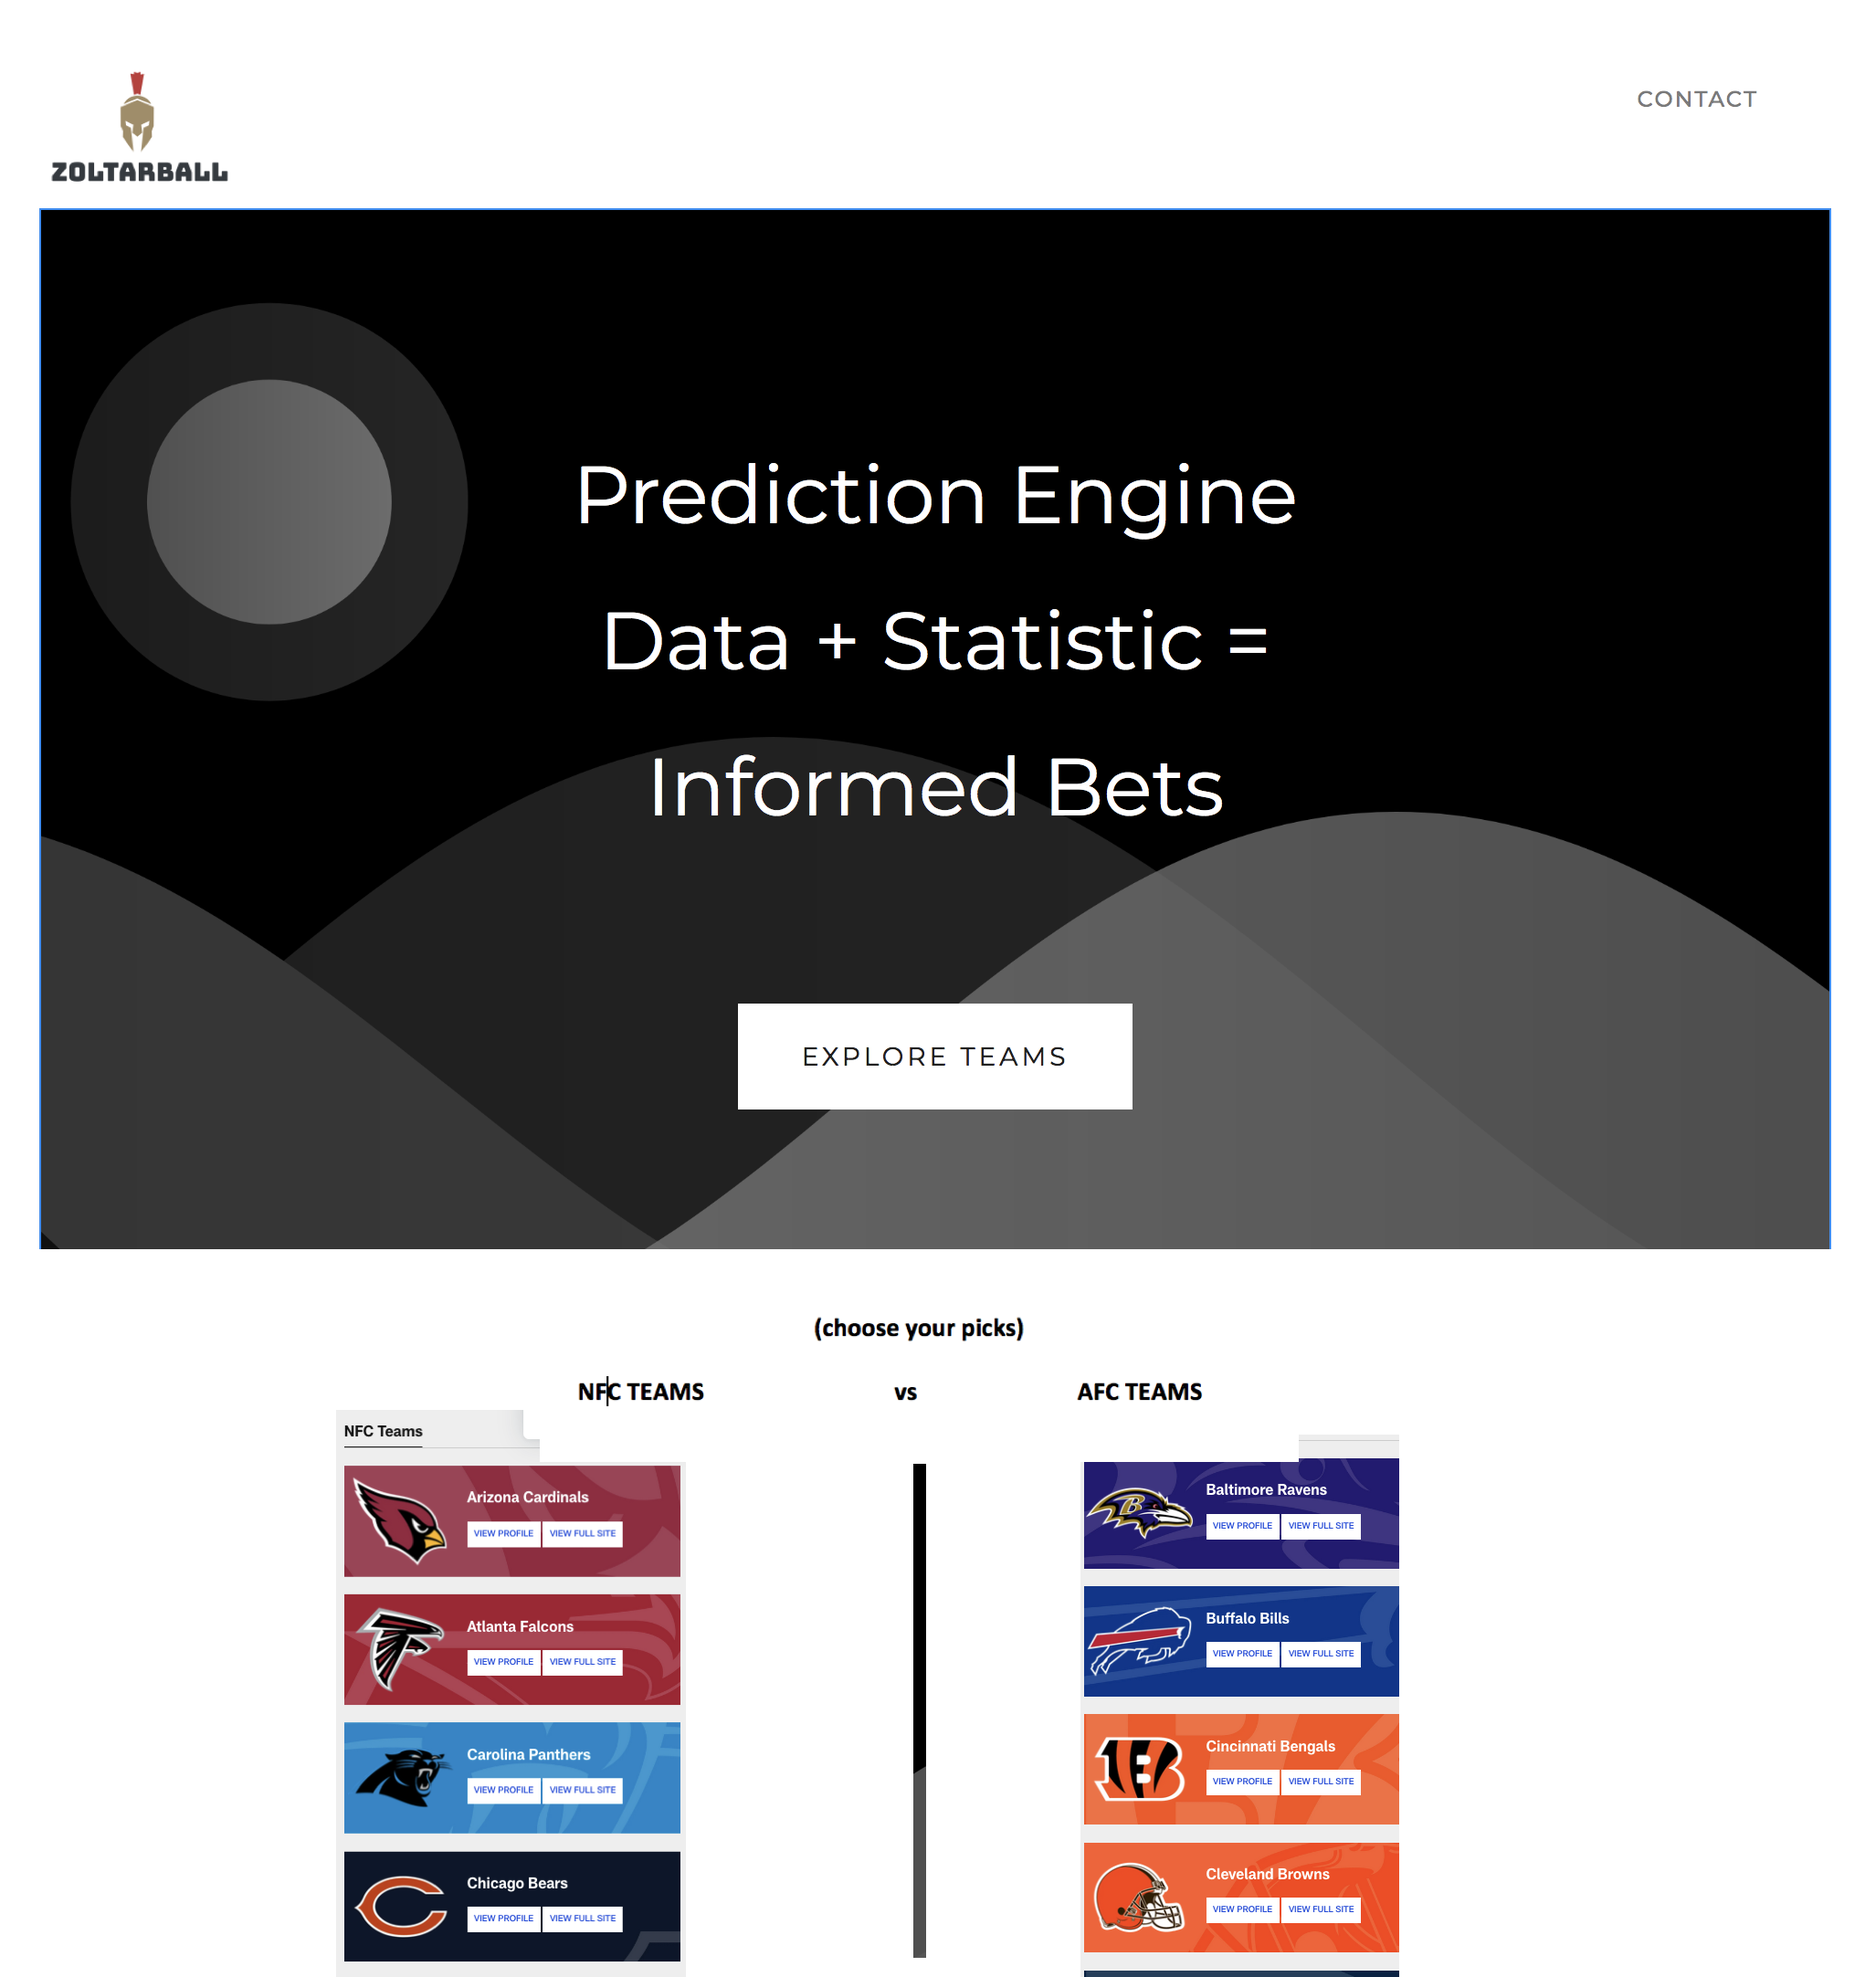
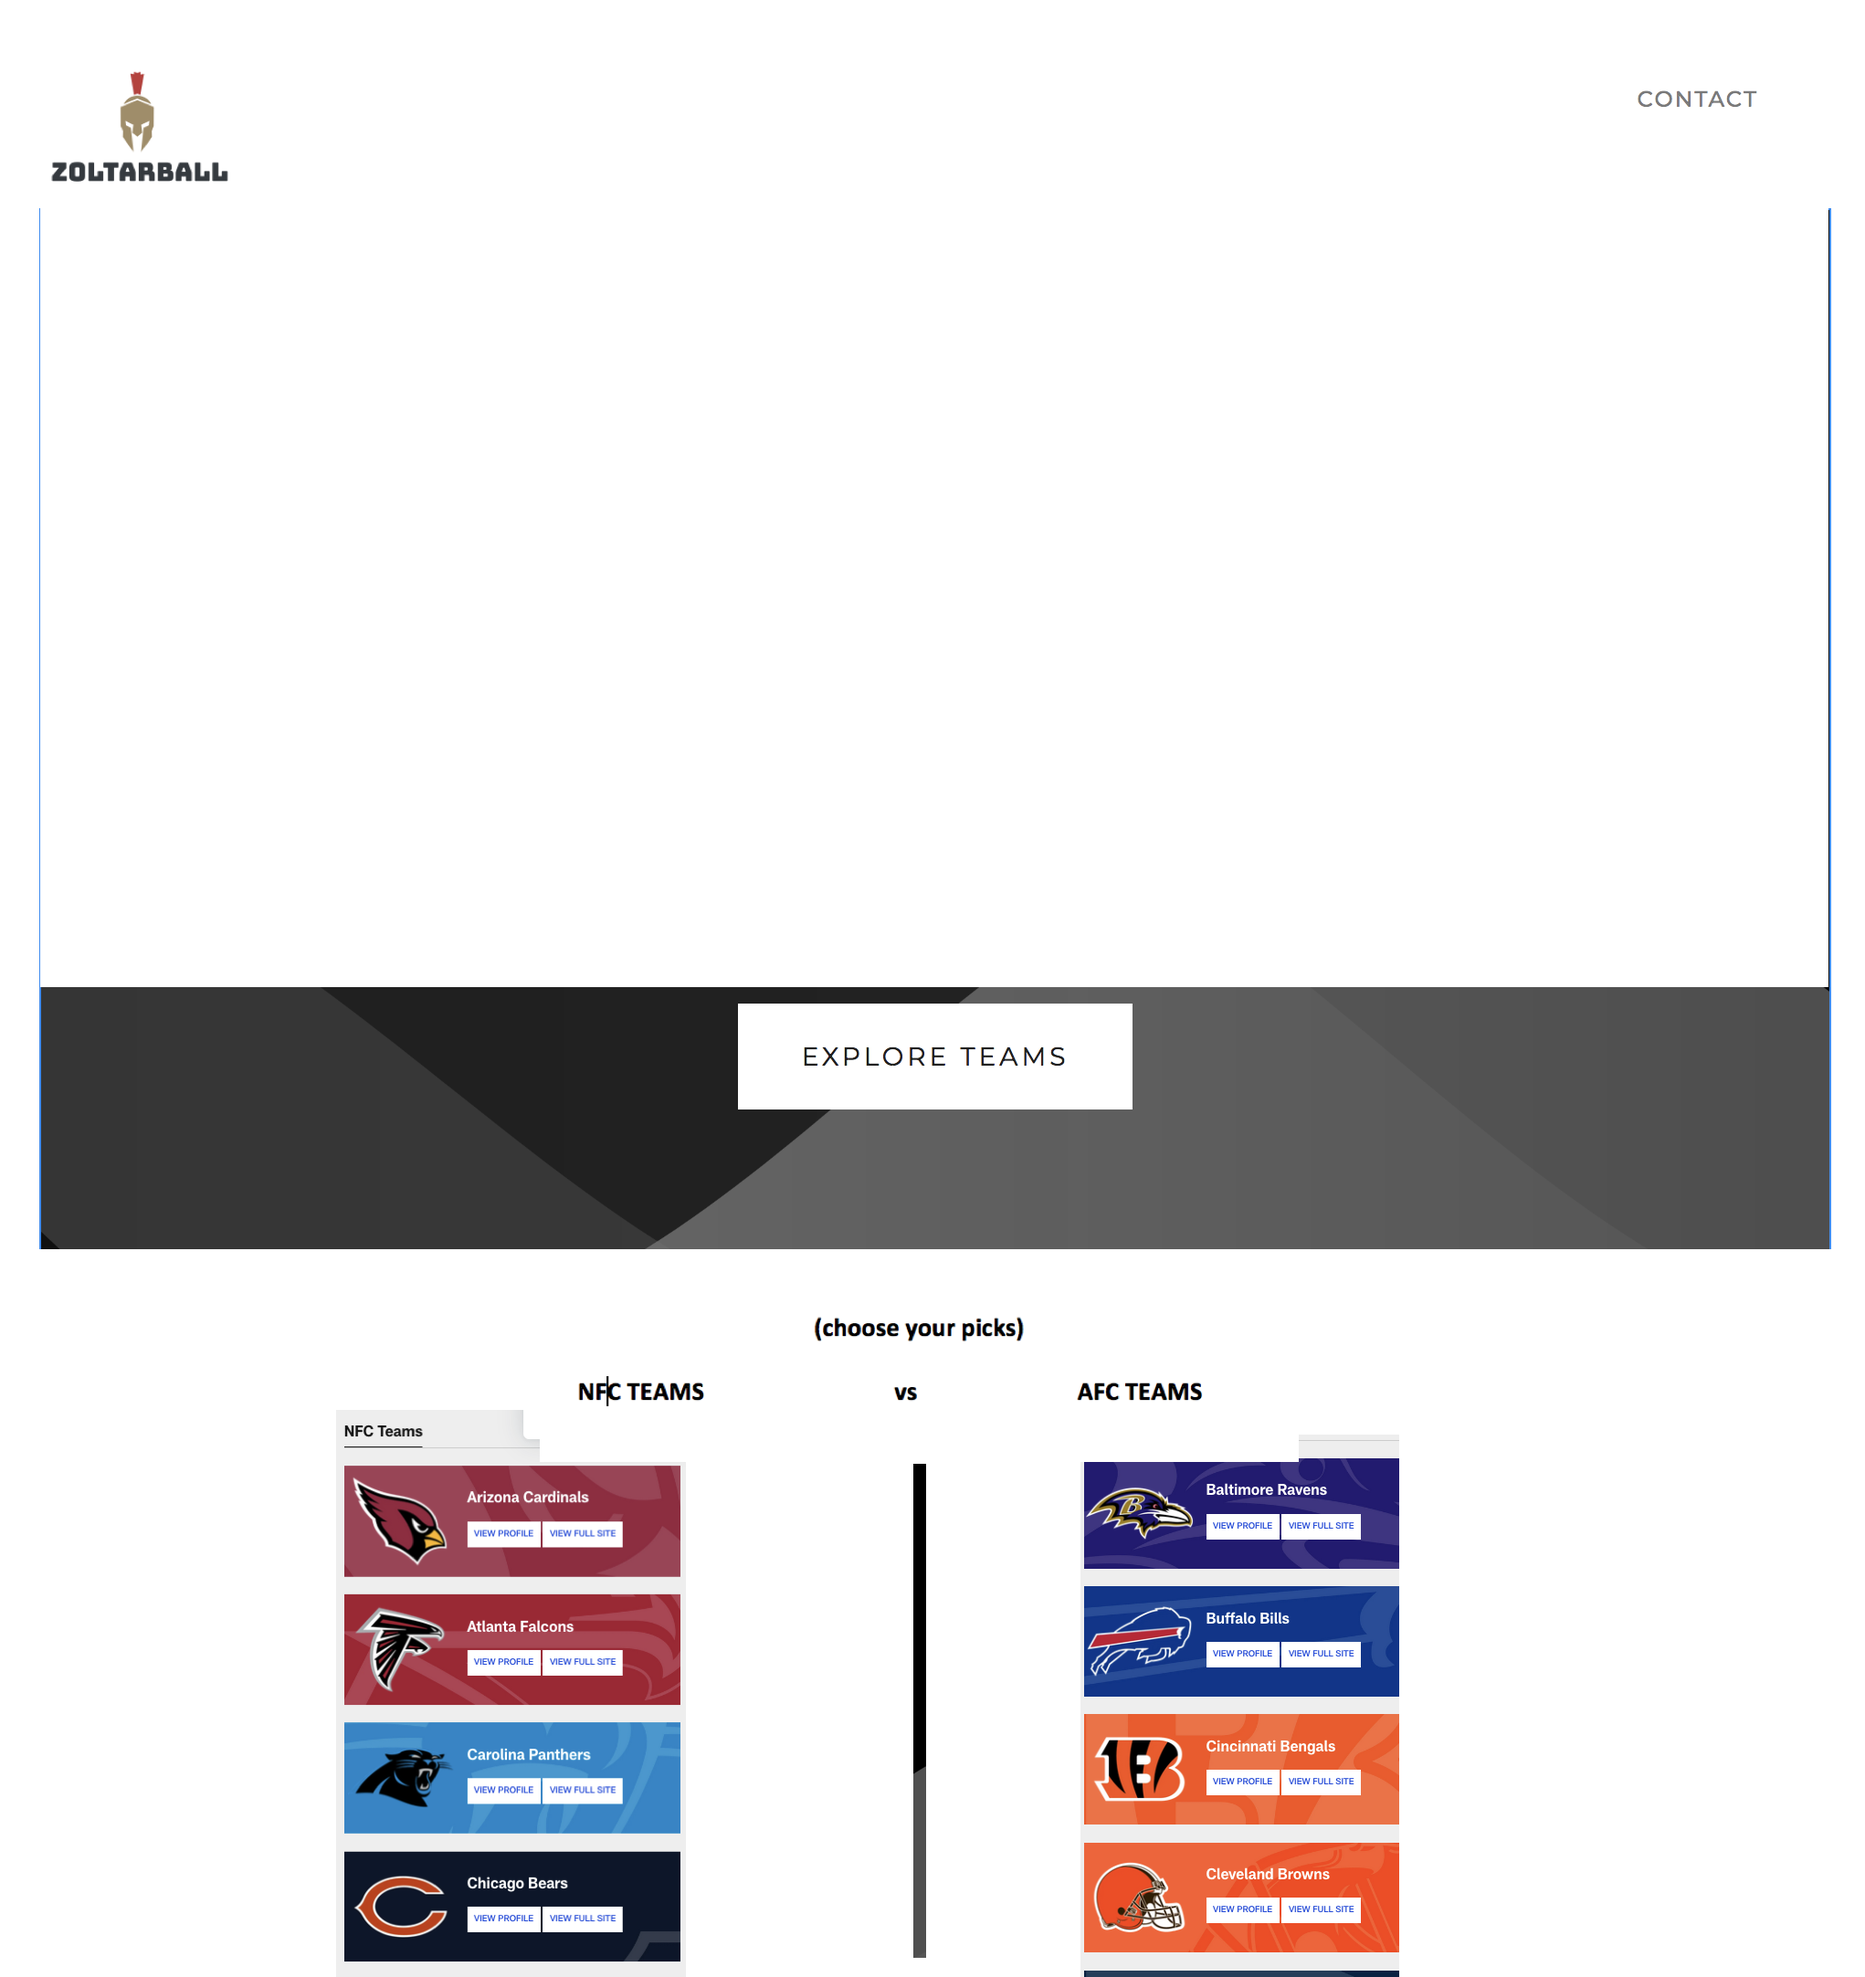
Index.html

diff --git a/assets/css/style.css b/assets/css/style.css
@@ -1,0 +1,154 @@
+* {
+    box-sizing: border-box;
+    padding: 0;
+  }
+
+
+  body {
+    font-family: Helvetica, Arial, sans-serif;
+  }
+
+  header {
+    background-color: #ffffff;
+    display: flex;
+    justify-content: space-between;
+    flex-wrap: wrap;
+    position: sticky;
+    position: -webkit-sticky;
+    top: 0;
+    background-size: cover;
+    background-attachment: fixed;
+    background-position: 80%;
+  }
+
+  header a {
+    text-decoration: none;
+    color: #020201;
+  }
+  
+  header nav {
+    margin: 7px 0;
+  }
+
+  header nav ul {
+    display: flex;
+    flex-wrap: wrap;
+    justify-content: space-between;
+    align-items: center;
+    list-style: none;
+  }
+
+  header nav ul li a {
+  padding: 10px 15px;
+  font-weight: lighter;
+  font-size: 1.55vw;
+  text-shadow: 0 0 10px rgba(0, 0, 0, 0.5);
+}
+
+header nav ul li a:hover {
+  background: #080803;
+  color: #f5f103;
+  border-radius: 15px;
+  text-shadow: none;
+  
+}
+
+/* Hero Style Start */
+.hero {
+    background-image: url('../images/Hero.png');
+    flex-wrap: wrap;
+
+  }
+
+  .hero-form {
+    border: 3px solid #024e76;
+    background-color: rgba(255, 225, 56, 0.8);
+    padding: 20px;
+    color: #024e76;
+    width: 40%;
+    margin: 3.5%;
+    border-radius: 15px;
+  
+  }
+
+  .hero-cta {
+    width: 10%;
+    text-align: right;
+    margin: 55px;
+    color: #fff;
+    font-size: 18px;
+    line-height: 7.8;
+  }
+
+  /* MEDIA QUERY FOR SMALLER DESKTOP SCREENS AND SMALLER */
+@media screen and (max-width: 980px) {
+    header {
+      padding-bottom: 0;
+      justify-content: center;
+    }
+  
+    header h1 {
+      width: 100%;
+      text-align: center;
+    }
+  
+    header nav ul {
+      margin-top: 20px;
+      width: 100%;
+      justify-content: center;
+    }
+  
+    header nav ul li a {
+      font-size: 20px;
+    }
+  
+    footer h2, footer div {
+      text-align: center;
+      width: 100%;
+    }.hero-cta, .hero-form {
+      width: 100%;
+    }
+    
+    .hero-cta {
+      text-align: center;
+    }
+    .section-title {
+      width: 80%;
+    }
+    
+    .trainer {
+      flex: 0 70%;
+    }
+    
+    .contact-info iframe{
+      flex: 1 100%;
+    }
+    @media screen and (max-width: 575px) {
+  
+      .hero-form button {
+        width: 100%;
+      }
+    
+      .section-title {
+        width: 95%;
+      }
+    
+      .intro p {
+        width: 100%;
+      }
+    
+      .trainer {
+        flex: 0 100%;
+      }
+    
+      .contact-info {
+        text-align: center;
+      }
+    
+      .contact-info > * {
+        flex: 0 100%;
+      }
+    }
+    .contact-form {
+      order: 3;
+    }

diff --git a/index.html b/index.html
@@ -1,0 +1,35 @@
+<!DOCTYPE html>
+<html lang="en">
+<head>
+    <meta charset="UTF-8">
+    <meta http-equiv="X-UA-Compatible" content="IE=edge">
+    <meta name="viewport" content="width=device-width, initial-scale=1.0">
+    <link rel="stylesheet" href="./assets/css/style.css">
+    <title>ZoltarBall - Bet with Confidence - </title>
+</head>
+<body>
+    <header>
+            <a href="./index.html"><img src="./assets/images/newwogo.png" alt="ZoltarBall"  width="140" height="150" </a>
+            <nav>
+                <ul>
+                    <li>
+                        <a href="#Explore">Explore NFL Teams</a>
+                    </li>
+                    <li>
+                        <a href="#Contact">Contact Us</a>
+                    </li>
+                </ul>
+            </nav>
+    </header>
+   <!-- end navigation -->
+
+    <!-- hero/jumbotron -->
+    <section class="hero">
+        <div class="hero-cta">
+          <h2> Better Data Better Bets With ZoltarBall.com </h2>
+        </div>
+
+        
+
+</body>
+</html>
